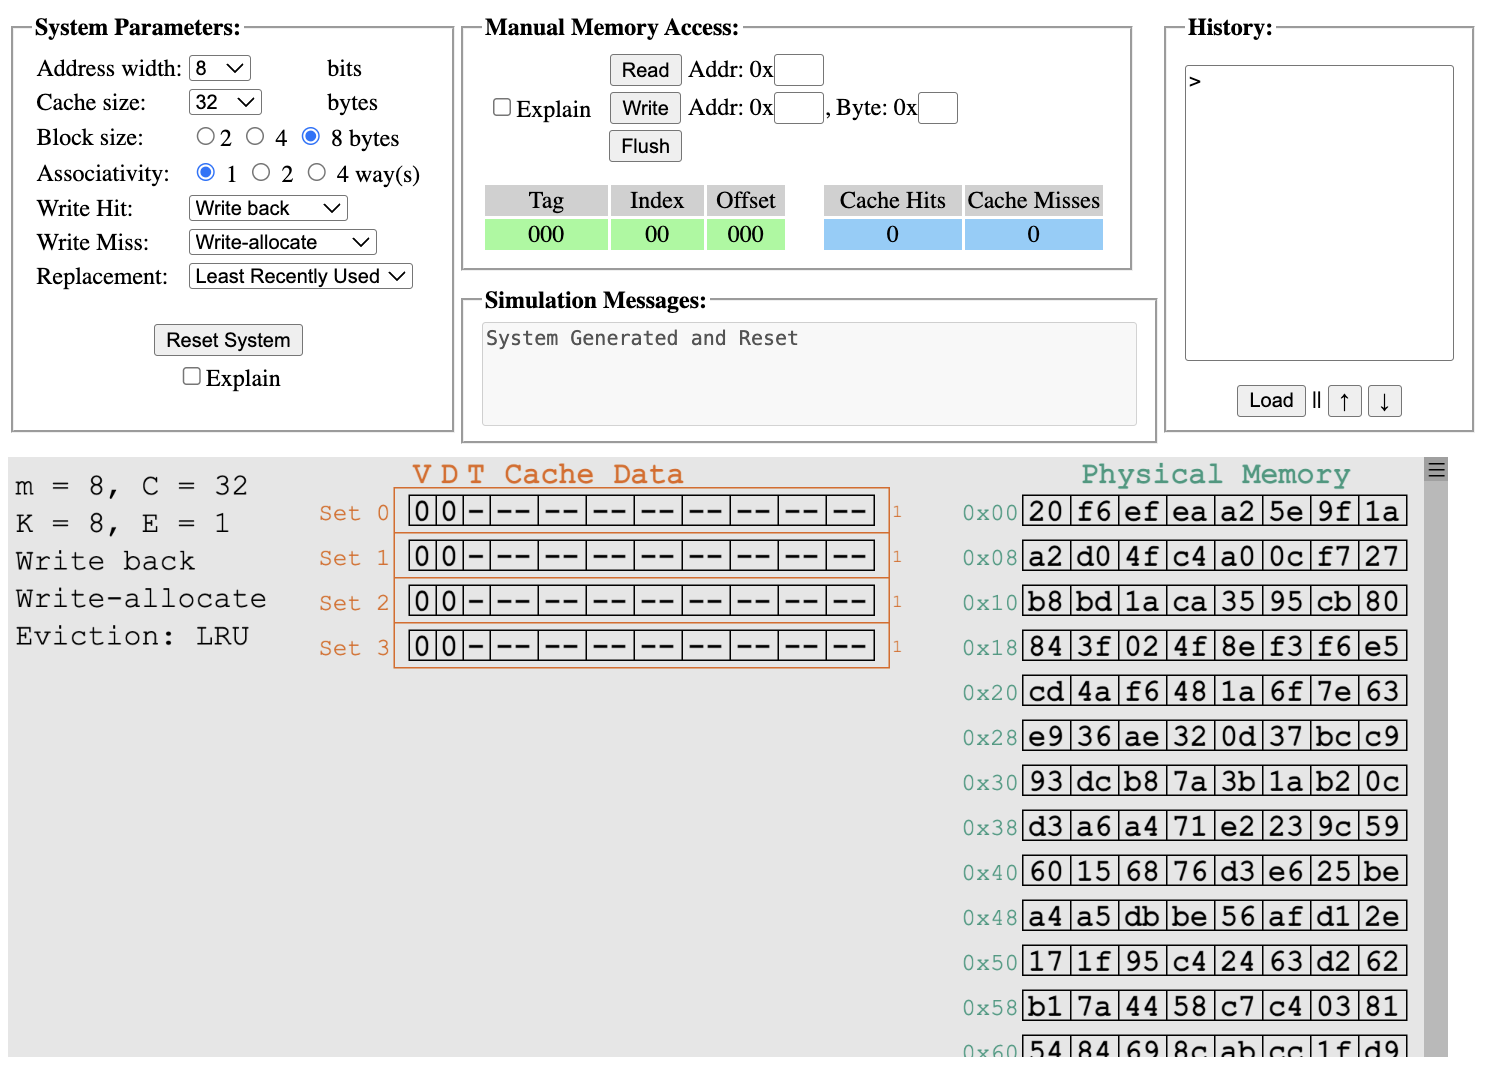
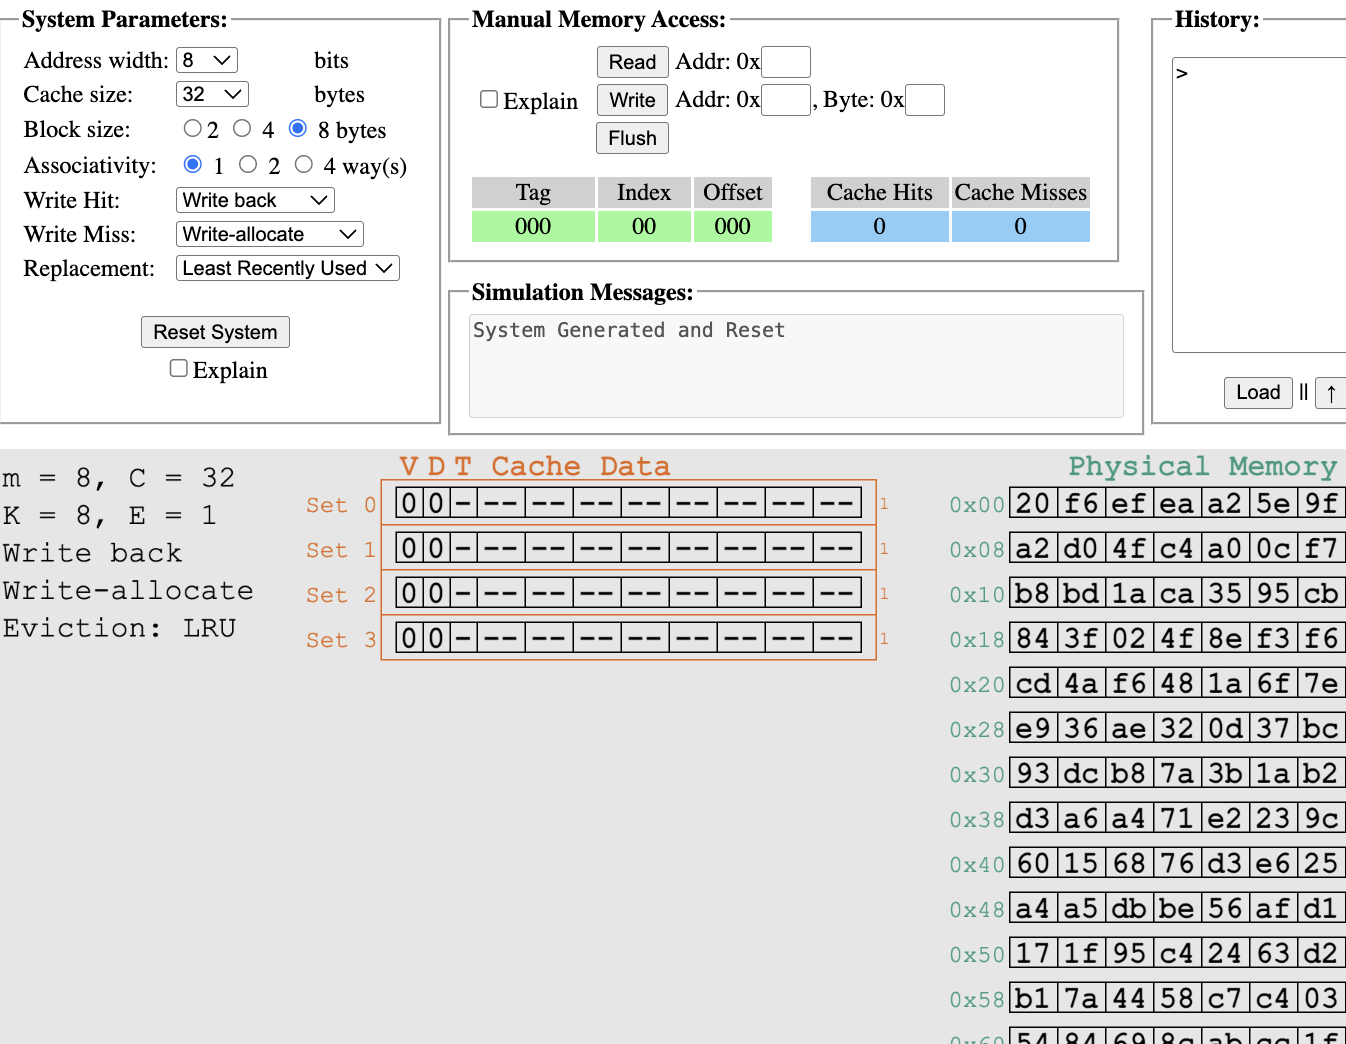
July 2026 updates

Changed region(s): [[0.0, 0.0, 1.0, 1.0], [0.0936, 0.3065, 0.2184, 0.3678], [0.7801, 0.0613, 0.8113, 0.092]]

diff --git a/work.html b/work.html
@@ -45,13 +45,13 @@
 								<h1>Work Experience</h1>
 							</header>
 							<div class="content">
-								<p>I've had significant experience in teaching and education research. I aim to acquire more instructing 
-									experience in the coming year.
+								<p>I've had significant experience in teaching and education research, especially involving systems
+									 and computer architecture topics.
 								</p>
 							</div>
 							<div class="subcontent">
 								<p>
-									Last updated: April 2026
+									Last updated: July 2026
 								</p>
 							</div>
 						</div>
@@ -63,13 +63,37 @@
 							<section id="one" class="spotlights">
 								<section>
 									<a class="image">
+										<img src="images/asm_hello.png" alt="" data-position="25% 25%" />
+									</a>
+									<div class="content">
+										<div class="inner">
+											<header class="major">
+												<h4>CSE 351 Summer Instructor</h4>
+												<i>June 2026 - August 2026</i> &#x2022 <i>University of Washington, Seattle</i>
+											</header>
+											<p style="font-size:0.8em">
+												During the 2026 summer academic quarter, I was the instructor of record for 
+												CSE 351: The Hardware-Software Interface. I taught a class of ~40 registered students from
+												diverse academic backgrounds and managed a staff of 5 teaching assistants of varied teaching
+												experience. I transitioned the course assessments from a midterm exam to weekly quizzes; this 
+												model was designed to maintain academic rigor while allowing students to receive more rapid 
+												feedback about their level of understanding and seek additional support earlier in the quarter.
+											</p>
+											<ul class="actions">
+												<li><a href="https://courses.cs.washington.edu/courses/cse351/26su/" target="_blank" class="button small">CSE 351 26su Course Website</a></li>
+											</ul>
+										</div>
+									</div>
+								</section>
+								<section>
+									<a class="image">
 										<img src="images/gem5_logo.png" alt="" data-position="25% 25%" />
 									</a>
 									<div class="content">
 										<div class="inner">
 											<header class="major">
 												<h4>gem5 Educational Materials Development Research</h4>
-												<i>July 2025 - Present</i>
+												<i>July 2025 - Present</i> &#x2022 <i>University of Washington, Seattle</i>
 											</header>
 											<p style="font-size:0.8em">
 												I am involved in a research project applying CS pedagogy principles to the teaching of <a href="https://www.gem5.org/" target="_blank">gem5</a>, a computer 
@@ -77,7 +101,7 @@
 												diverse backgrounds, including people who have not done research or worked with simulators before. This involves 
 												"translating" existing materials into more accessible language while adding 
 												necessary context, creating new diagrams and examples, and restructuring 
-												materials into one cohesive and easy to follow online course. I learned a lot about computer architecture simulation, 
+												materials into one cohesive and easy to follow self-paced online course. I learned about computer architecture simulation, 
 												course development principles, and working in a research environment.
 												<br><br>
 												<b>The project is not yet public; check back soon!</b>
@@ -93,9 +117,9 @@
 										<div class="inner">
 											<header class="major">
 												<h4>CSE 374 Teaching Assistant</h4>
-												<i>March 2026 - Present</i>
+												<i>March 2026 - June 2026</i> &#x2022 <i>University of Washington, Seattle</i>
 											</header>
-											<p style="font-size:0.8em"> I am currently working as a TA for CSE 374 (Intermediate Programming Concepts and Tools), a course focused on teaching key software development concepts to non-CSE major students.
+											<p style="font-size:0.8em"> I worked as TA for CSE 374 (Intermediate Programming Concepts and Tools), a course focused on teaching key software development concepts to non-CSE major students.
 												The class covers topics such as Linux, Bash scripting, C and C++ programming, and debugging with tools such a GDB and Valgrind.
 												During this time, I developed a debugging interview assessment, writing both the student-facing assignment and the evaluation materials. I gained valuable insights on working with a non-major student
 												population and on assessment development.
@@ -114,7 +138,9 @@
 										<div class="inner">
 											<header class="major">
 												<h4>CSE 351 Teaching Assistant, Head TA</h4>
-												<i>September 2023 - March 2025, September 2025 - March 2026</i>
+												<i>September 2023 - March 2025, September 2025 - March 2026</i> &#x2022
+												<br>
+												<i>University of Washington, Seattle</i>
 											</header>
 											<p style="font-size:0.8em">
 											  My longest-held position is as a TA for UW's Hardware-Software Interface course. I taught topics such as memory and data, x86-64 assembly, caching, virtual memory, multiprocessing, and 
@@ -136,9 +162,9 @@
 										<div class="inner">
 											<header class="major">
 												<h4>CSE 451 Teaching Assistant</h4>
-												<i>March 2025 - June 2025</i>
+												<i>March 2025 - June 2025</i>  &#x2022 <i>University of Washington, Seattle</i>
 											</header>
-											<p style="font-size:0.8em">I spent a quarter TAing UW's operating systems course, CSE 451. I learned a lot about how to debug complex 
+											<p style="font-size:0.8em">I spent a quarter TAing UW's operating systems course, CSE 451. I learned about how to debug complex 
 												kernel-level student code, review and provide constructive feedback on student design documents, and discuss 
 												topics such as exceptional control flow, scheduling, paging, and file system management.
 											</p>

diff --git a/about.html b/about.html
@@ -66,8 +66,8 @@
 									<p>I've been a fan of everything computers for as long as I can remember. 
 										I completed my B.S. in Computer Science from the University of Washington in June of 2025. During my undergrad, I found 
 										a passion for operating systems and computer architecture and an even deeper love for computer science education. I believe 
-										that anyone can learn CS--it's a matter of creating the right environment. I am now pursuing my Master's in Computer Science, 
-										also from the University of Washington, and I am due to graduate in June of 2026.
+										that anyone can learn CS--it's a matter of creating the right environment. I graduated with my Master's in Computer Science, 
+										also from the University of Washington, in June 2026.
 									</p>
 									<p>When I'm not thinking about computers, I'm probably painting, playing video games with my friends, or trying to get
 										a TTRPG group together. My last painting was a simplified CPU die shot done with acrylic paint on canvas. I absolutely 
